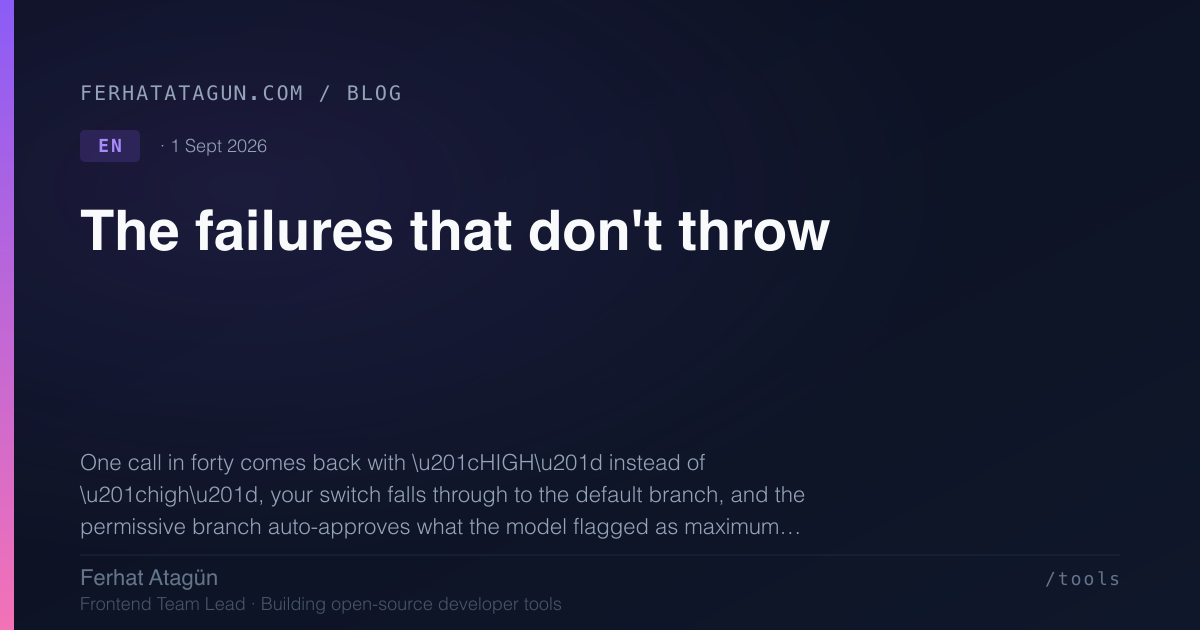
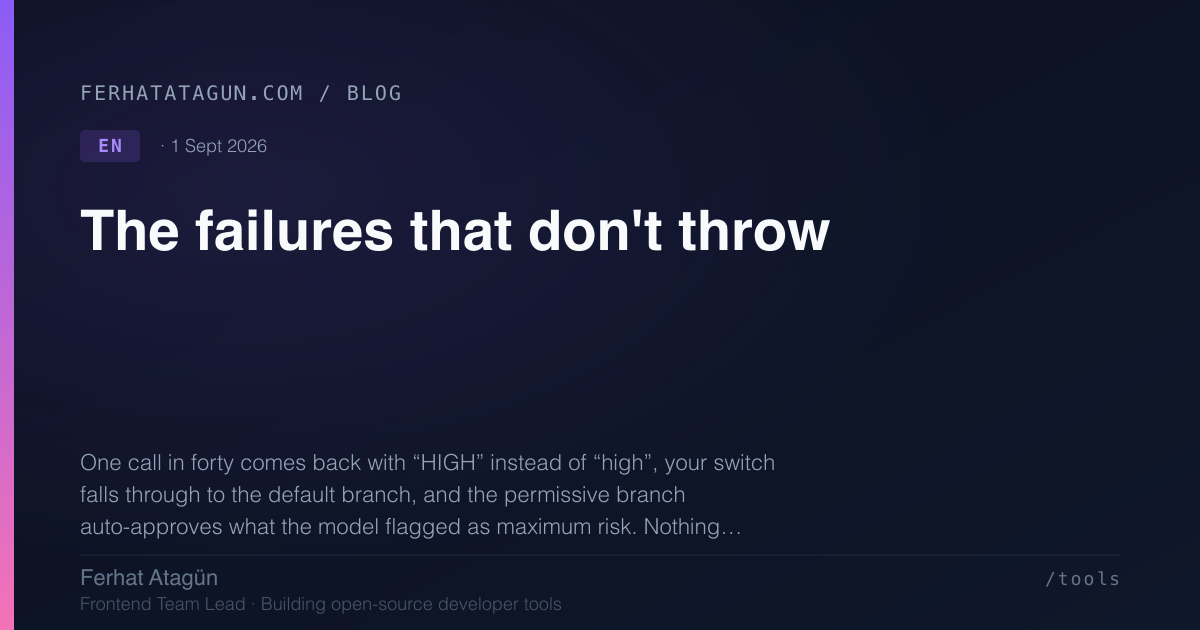
feat(blog): add context-window billing post, fix OG card smart-quote bug
- New post (TR+EN): "Your context window bills you every turn" /
  "Baglam biriktirilmez, her turda yeniden faturalanir"
- Fix generate-og-cards.mjs emitting literal escape sequences
  instead of rendered curly quotes; regenerate the 4 affected cards

Changed region(s): [[0.0617, 0.7238, 0.6783, 0.8746]]

diff --git a/src/lib/data/blog.ts b/src/lib/data/blog.ts
@@ -37,6 +37,8 @@ import post22EnRaw from '$lib/md/blog/the-failures-that-dont-throw-en.md?raw';
 import postTr16Raw from '$lib/md/blog/patlamayan-hatalar.md?raw';
 import post20EnRaw from '$lib/md/blog/done-when-they-can-change-it-en.md?raw';
 import post21EnRaw from '$lib/md/blog/the-second-customer-en.md?raw';
+import post23EnRaw from '$lib/md/blog/your-context-window-bills-you-every-turn-en.md?raw';
+import postTr17Raw from '$lib/md/blog/baglam-her-turda-yeniden-faturalanir.md?raw';
 
 /**
  * Blog post metadata and optional raw markdown content.
@@ -79,7 +81,8 @@ const contentMap: Record<string, string> = {
 	'degistirebildiklerinde-bitti': postTr13Raw,
 	'ikinci-musteri-ne-yaptigini-soyler': postTr14Raw,
 	'ise-yarayan-kurallar-ve-komutlar': postTr15Raw,
-	'patlamayan-hatalar': postTr16Raw
+	'patlamayan-hatalar': postTr16Raw,
+	'baglam-her-turda-yeniden-faturalanir': postTr17Raw
 };
 
 const contentMapEn: Record<string, string> = {
@@ -99,12 +102,29 @@ const contentMapEn: Record<string, string> = {
 	'that-library-will-hurt-performance': post19EnRaw,
 	'done-when-they-can-change-it': post20EnRaw,
 	'the-second-customer': post21EnRaw,
-	'the-failures-that-dont-throw': post22EnRaw
+	'the-failures-that-dont-throw': post22EnRaw,
+	'your-context-window-bills-you-every-turn': post23EnRaw
 };
 
 export const title = 'Blog';
 
 export const items: BlogPost[] = [
+	{
+		slug: 'your-context-window-bills-you-every-turn',
+		title: 'Your context window bills you every turn',
+		excerpt:
+			"Auto-compaction feels like losing your context, but the raw usage numbers from three real Claude Code sessions say the opposite: 1.99 billion tokens read from cache against 62 million written, a 32:1 ratio, and four compactions that each reset a bill that had been climbing since turn one. Compaction isn't the tax. It's the tax getting paid off.",
+		date: '2026-09-02',
+		tags: ['LLM', 'Claude', 'Developer Tools', 'Performance', 'Context', 'Observability']
+	},
+	{
+		slug: 'baglam-her-turda-yeniden-faturalanir',
+		title: 'Bağlam biriktirilmez, her turda yeniden faturalanır',
+		excerpt:
+			"Otomatik compaction bağlamı kaybetmek gibi hissettiriyor, ama üç gerçek Claude Code oturumundan çıkan ham usage verisi tam tersini söylüyor: cache'ten okunan 1,99 milyar token, cache'e yazılan 62 milyona karşı, 32:1 oran, ve her biri birinci turdan beri tırmanan faturayı sıfırlayan dört compaction. Compaction vergi değil. Verginin ödenme anı.",
+		date: '2026-09-02',
+		tags: ['LLM', 'Claude', 'Developer Tools', 'Performance', 'Context', 'Observability']
+	},
 	{
 		slug: 'the-failures-that-dont-throw',
 		title: "The failures that don't throw",
@@ -482,7 +502,8 @@ export const translationPairs: Array<[en: string, tr: string]> = [
 	['done-when-they-can-change-it', 'degistirebildiklerinde-bitti'],
 	['the-second-customer', 'ikinci-musteri-ne-yaptigini-soyler'],
 	['rules-and-commands-that-stick', 'ise-yarayan-kurallar-ve-komutlar'],
-	['the-failures-that-dont-throw', 'patlamayan-hatalar']
+	['the-failures-that-dont-throw', 'patlamayan-hatalar'],
+	['your-context-window-bills-you-every-turn', 'baglam-her-turda-yeniden-faturalanir']
 ];
 
 /**

diff --git a/src/lib/md/blog/baglam-her-turda-yeniden-faturalanir.md b/src/lib/md/blog/baglam-her-turda-yeniden-faturalanir.md
@@ -1,0 +1,78 @@
+# Bağlam biriktirilmez, her turda yeniden faturalanır
+
+Claude Code bu hafta oturumumu dördüncü kez compact etti, ve ilk tepkim normal olanıydı: sinirlendim. Her şeyi sildi, yarısını yeniden anlatmam gerekecek.
+
+Sonra Claude Code'u kendi transkript dosyalarına yönlendirdim, sinirlenmek yerine hesabı yaptım. Transkriptler diskte duran JSONL dosyaları — her istek, her token sayısı, zaman damgalı. Üç oturum, 5.288 istek, birkaç dakikalık parse işlemi.
+
+Çıkan yeniden çerçeveleme şu: **compaction vergi değil. Verginin ödenme anı.** Vergi, ondan önceki her tur.
+
+**TL;DR**
+
+- Her tur, o ana kadarki tüm konuşmayı yeniden gönderir. Hiçbir şey bedavaya "hatırlanmaz" — 900K token'lık bir bağlam, 901. turda indirimli bir biçimde yeniden okunur.
+- Üç gerçek oturumda: cache'ten okunan 1,99 milyar token, cache'e yazılan 62 milyon token. **32:1** oran — bağlama koyduğun her token, oradan çıkana kadar ortalama otuz iki kez daha faturalanıyor.
+- Dört otomatik compaction, 968K, 996K, 999K ve 771K token'da tetiklendi. Her biri sadece özetleme yaparken **108–140 saniye** sürdü. Hemen sonrasında cache-read ~990K'dan 0'a düştü.
+- Liste fiyatıyla, cache indirimi compaction hiç devreye girmeden bile her turda tam fiyat ödemeye kıyasla tahmini **%86** tasarruf sağladı — mekanizmanın amaçlandığı gibi çalışması bu, ve 1M token'lık bir bağlamın 50. turda kimseyi batırmamasının nedeni de bu.
+
+## 500. turda gerçekte ne oluyor
+
+Bir konuşma boyunca kalıcı bir çalışma belleği yok. Her API çağrısı durumsuz (stateless) — model isteğe konan metni görür, başka hiçbir şeyi görmez. Yani bir kodlama oturumunun "hafızası" tamamen yeniden-göndermeden ibaret bir yanılsama: her önceki dosya okuması, her araç sonucu, her mesaj, birleştirilip her tekil turda yeniden gönderilir.
+
+Prompt caching, bunu sürdürülebilir kılan şey — [bu indirimin mekaniğini](https://ferhatatagun.com/blog/prompt-caching-kimsenin-olcmedigi) Messages API'yi doğrudan faturalandıran ekipler için daha önce yazmıştım. Bu yazı o fatura hakkında değil. İndirimin silmediği şey hakkında: bir kodlama *ajanının* bağlamı, beş dakika sabit kalan bir sistem prompt'u değil — her araç çağrısında büyüyor, ve 500. turda ne kadarının yeniden gönderileceğine sizin uygulamanızın istek deseni değil, ajanın kendisi karar veriyor.
+
+"Büyük indirim var" ile "bedava" aynı şey değil. Bağlamdaki token sayısı, o dosyayı yapıştırdığınız anda ödediğiniz tek seferlik bir maliyet değil — oturumdaki her kalan tur için tekrar eden bir kalem.
+
+## Kendi oturumlarım neye benziyordu
+
+Bunu üç Claude Code proje transkriptinden çıkardım — `~/.claude/projects/` altında duran `.jsonl` dosyaları, olay başına bir satır, her asistan mesajında bir `usage` nesnesi.
+
+| Oturum | İstek | Cache okuma | Cache yazma | Çıktı |
+|---|---|---|---|---|
+| A | 498 | 132M | 2,2M | 0,34M |
+| B | 2.138 | 670M | 24M | 1,5M |
+| C | 2.652 | 1.191M | 36M | 2,3M |
+| **Toplam** | **5.288** | **1.993M** | **62M** | **4,2M** |
+
+Okuma:yazma oranı — bir token'ın *yeniden görülerek* kaç kez faturalandığı, *yeni eklenerek* bir kez faturalandığına kıyasla — toplamda **32:1**'de duruyor, ve herhangi bir tek uzun oturum içinde bağlam büyüdükçe tırmanıyor.
+
+Oturum C daha çarpıcı örnek. Dört otomatik compaction'a çarptı:
+
+| Tetikleyici | Compaction'daki bağlam boyutu | Süre |
+|---|---|---|
+| otomatik | 968.704 token | — |
+| otomatik | 996.078 token | 108,7s |
+| otomatik | 999.313 token | 139,5s |
+| manuel | 771.369 token | 140,5s |
+
+Her biri ~1M tavanına tam yakın kümeleniyor — otomatik compactor tam olarak yapması gerekeni yapıyor, pencere taşmadan önce tetikleniyor. Ve her biri ham usage verisinde aynı imzayı gösteriyor: bir önceki istekte cache-read ~990K, ondan sonraki ilk istekte **0**. Sonraki her turu kademeli olarak daha maliyetli kılan, biriken bağlamın tamamı atılıyor ve bir özetle değiştiriliyor. 901. tur yeniden ucuz.
+
+Yeniden çerçeveleme burada: compaction, bağlamınızı kaybetmiyor. İki dakikalık bir duraklama ve özetin koruyamadığı her şey bedeliyle, tekrar eden faturanın sıfırlandığı an.
+
+## Dürüst maliyet hesabı
+
+Yayınlanmış liste fiyatlarında, bu üç oturumdaki gerçek token karışımını cache'li ve cache'siz fiyat formüllerinden geçirmek şunu veriyor:
+
+- Caching ile: kabaca **4.500 dolar**
+- Caching olmadan (her token, her turda, tam giriş fiyatıyla): kabaca **31.000 dolar**
+
+Bu, compaction hiç devreye girmeden, sadece caching'den gelen %86'lık bir azalma.
+
+İki uyarı var, çünkü bunu yanlış anlatmak tam da [daha önce yazdığım](https://ferhatatagun.com/blog/teslim-edilen-prompt-degil-eval) türden bir doğrulanmamış sayıyı gerçek sanma hatası olurdu:
+
+1. **Bu bir abonelik, API faturalandırması değil.** 4.500 dolarlık bir çek yazmadım — sabit bir plan ödüyorum. Sayı sadece bir *oran* olarak (cache'li vs cache'siz) anlamlı, gerçek harcama olarak değil. Onu gerçek harcama gibi sunmak, tam da makul görünen bir sayıyı doğrulanmış sanma hatasının kendisi olurdu.
+2. **Liste fiyatı, efektif fiyat değil.** Gerçek API cache fiyatlandırması sağlayıcıya ve model katmanına göre değişir; çarpan mekanizmayı gösteriyor, bir teklif değil.
+
+## En güçlü karşı argüman
+
+*Bu caching'in çalışması gerektiği şekilde çalışması değil mi?* Evet. Nokta da tam burası, ve bağlam şişkinliğini bir hata gibi ima etmek yerine açıkça söylemekte fayda var: caching, uzun oturumları ekonomik olarak mümkün kılan şey, ve işini iyi yapıyor — %86 indirim yuvarlama hatası değil.
+
+Ama "indirim var" ile "maliyet yok" — kırk araç çağrısı derinliğinde bir hata ayıklama oturumundaysanız sessizce aynı şey gibi ele alınıyor, ve değiller. İndirimli tekrar eden bir ücret, hâlâ tekrar eden bir ücret. %90 indirimli olması, o token pencerede kaldığı sürece bir sonraki turda da, ondan sonraki turda da yeniden faturalanacağını değiştirmiyor.
+
+## Bununla gerçekte ne yapılır
+
+Egzotik bir şey değil — kaldıraçlar Claude Code'un kendi tasarımında zaten oturuyordu, bu sadece göründüklerinden daha çok önemli olduklarını açıklıyor:
+
+- **İlgisiz iş için yeni oturum aç**, 600K token'lık bir bağlamı hiçbirine ihtiyacı olmayan bir göreve sürüklemek yerine. Bağlam, konuştuğunuz her şeyin bedava bir cache'i değil — konuştuğunuz her şeyin faturası.
+- **Geniş keşfi bir subagent'a devret**, on dosyayı ana thread'e okumak yerine. Subagent'ın bağlamı kendisiyle birlikte ölür; sizinki, direkt çektiğiniz her şey için ödemeye devam eder.
+- **Konu değiştirmeden önce manuel compact**, bir taviz değil, meşru bir hamle — bakiyeyi otomatik olanın siz düşüncenin ortasındayken yapmasını beklemek yerine bilerek kapatmak.
+
+Bunun hiçbiri "AI bağlam pencereleri pahalı" diye çerçevelenmiş bir haber değil. Mühendislerin istek başına ölçülen her şey için zaten sahip olduğu barındırma faturası içgüdüsüne daha yakın — sadece bir kodlama ajanının kendi konuşmasına şimdiye kadar yöneltilmemişti, çoğunlukla çünkü hiçbir bağlam penceresi faturayla birlikte gelmiyor. Bu geliyor. Sadece bir JSONL dosyasında, tur başına bir satır olarak duruyor, toplanmayı bekliyor.

diff --git a/src/lib/md/blog/your-context-window-bills-you-every-turn-en.md b/src/lib/md/blog/your-context-window-bills-you-every-turn-en.md
@@ -1,0 +1,79 @@
+# Your context window bills you every turn
+
+Claude Code compacted my session for the fourth time this week, and my first reaction was the normal one: annoyance. It just erased everything and I have to re-explain half of it.
+
+Then I pointed Claude Code at its own transcript files and did the arithmetic instead of the complaining. The transcripts are just JSONL on disk — every request, every token count, timestamped. Three sessions, 5,288 requests, a few minutes of parsing.
+
+The reframe that came out of it: **compaction isn't the tax. It's the tax getting paid off.** The tax is every turn before that.
+
+**TL;DR**
+
+- Every turn re-sends the entire conversation so far. Nothing is "remembered" for free — a 900K-token context gets re-read, in some discounted form, on turn 901.
+- Across three real sessions: 1.99 billion tokens read from cache, 62 million tokens written to it. A **32:1** ratio — each token you put in context gets paid for roughly thirty-two more times before it leaves.
+- Four auto-compactions fired at 968K, 996K, 999K, and 771K tokens. Each one took **108–140 seconds** of wall-clock time doing nothing but summarizing. Immediately after, cache-read dropped from ~990K to 0.
+- At list-price API rates, cache discounting saved an estimated **86%** versus paying full input price every turn — which is the whole mechanism working as intended, and also the reason a 1M-token context doesn't bankrupt anyone by turn 50.
+- None of this is "Claude Code is expensive." It's "the meter is per-turn, not per-token-ever-seen," and almost nobody reasons about a session that way while they're in it.
+
+## What actually happens on turn 500
+
+There's no persistent working memory across a conversation. Each API call is stateless — the model sees whatever text is in the request, and nothing else. So a coding session's "memory" is an illusion built entirely out of re-sending: every prior file read, every tool result, every message, concatenated and shipped again, every single turn.
+
+Prompt caching is the thing that makes this survivable — [I've written before](https://ferhatatagun.com/blog/prompt-caching-nobody-measures) about the mechanics of that discount for teams billing the Messages API directly. This post isn't about that bill. It's about what the discount doesn't erase: a coding *agent's* context isn't a system prompt that sits still for five minutes: it grows every tool call, and it's the agent itself — not your app's request pattern — deciding how much gets re-sent on turn 500.
+
+"A fraction of full price" is not "free." It's a discount on a bill that still arrives every turn. The number of tokens in context is not a one-time cost you paid when you pasted that file in — it's a recurring line item for every remaining turn in the session.
+
+## What my own sessions looked like
+
+I pulled this from three Claude Code project transcripts — `.jsonl` files sitting in `~/.claude/projects/`, one line per event, a `usage` object on every assistant message.
+
+| Session | Requests | Cache read | Cache write | Output |
+|---|---|---|---|---|
+| A | 498 | 132M | 2.2M | 0.34M |
+| B | 2,138 | 670M | 24M | 1.5M |
+| C | 2,652 | 1,191M | 36M | 2.3M |
+| **Total** | **5,288** | **1,993M** | **62M** | **4.2M** |
+
+The read:write ratio — how many times a token gets billed for being *re-seen* versus the one time it's billed for being *newly added* — sits at **32:1** overall, and climbs inside any single long session as context grows.
+
+Session C is the sharper case. It hit four automatic compactions:
+
+| Trigger | Context size at compaction | Duration |
+|---|---|---|
+| auto | 968,704 tokens | — |
+| auto | 996,078 tokens | 108.7s |
+| auto | 999,313 tokens | 139.5s |
+| manual | 771,369 tokens | 140.5s |
+
+Every one clusters right at the ~1M ceiling — the auto-compactor is doing exactly what it should, firing before the window overflows. And every one shows the same signature in the raw usage data: cache-read tokens at ~990K on the request immediately before, then **0** on the first request after. The entire accumulated context — everything that made every subsequent turn progressively more expensive — gets discarded and replaced with a summary. Turn 901 is cheap again.
+
+That's the reframe. The compaction isn't losing your context. It's the moment the recurring bill resets to zero — at the cost of a two-minute pause and whatever the summary didn't preserve.
+
+## The honest cost math
+
+At published list-price API rates, running the actual token mix from these three sessions through the cached-price and never-cached-price formulas gives:
+
+- With caching: roughly **$4,500**
+- Without caching (every token, every turn, at full input price): roughly **$31,000**
+
+That's an 86% reduction from caching alone — before compaction ever fires.
+
+Two caveats, because getting this wrong would be exactly the kind of unverified number [I've written about before](https://ferhatatagun.com/blog/the-eval-is-the-deliverable):
+
+1. **This is a subscription, not API billing.** I didn't write a $4,500 check — I pay a flat plan. The number is only meaningful as a *ratio* (cached vs. uncached), not as an actual bill. Presenting it as real spend would be the exact silent-failure-shaped mistake of treating a plausible number as a verified one.
+2. **List price, not effective price.** Actual API cache pricing varies by provider and model tier; the multiplier is illustrative of the mechanism, not a quote.
+
+## The strongest counterargument
+
+*Isn't this just... how caching is supposed to work?* Yes. That's the point, and it's worth stating plainly instead of implying context bloat is a bug: caching is what makes long sessions economically viable at all, and it's doing its job well — 86% off is not a rounding error.
+
+But "there's a discount" and "there's no cost" get quietly treated as the same thing when you're forty tool calls into a debugging session, and they aren't. A discounted recurring charge is still a recurring charge. The fact that it's 90% off doesn't change that it's billed again next turn, and the turn after, for as long as that token stays in the window.
+
+## What to actually do with this
+
+Nothing exotic — the levers were already sitting in Claude Code's own design, this just explains why they matter more than they look like they do:
+
+- **Open a new session for unrelated work**, rather than dragging a 600K-token context into a task that doesn't need any of it. The context isn't a free cache of everything you've discussed — it's a bill for everything you've discussed.
+- **Delegate wide exploration to a subagent** instead of reading ten files into the main thread. A subagent's context dies with it; yours keeps paying for whatever you pulled in directly.
+- **A manual compact before switching topics** is a legitimate move, not a concession — it's paying down the balance on purpose instead of waiting for the automatic one to do it while you're mid-thought.
+
+None of this is news framed as "AI context windows are expensive." It's closer to a hosting-bill instinct engineers already have for anything metered per-request — it just hadn't been pointed at a coding agent's own conversation before, mostly because nobody's context window ships with a bill attached. This one does. It's just sitting in a JSONL file, one line per turn, waiting to be added up.
